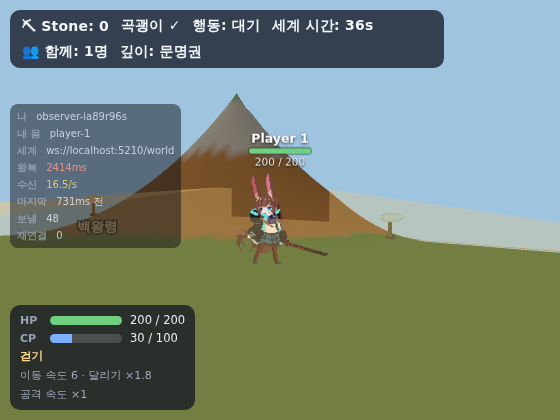
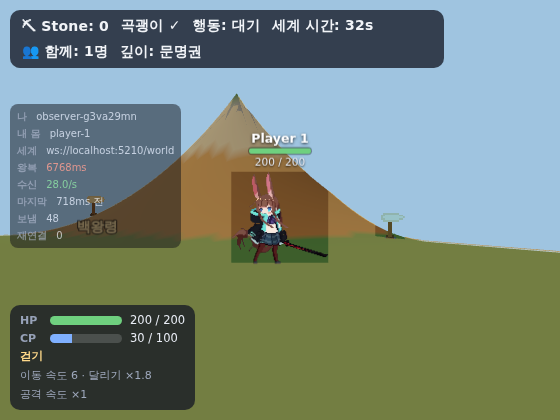
C005 마감 — 시나리오 909/909 PASS · 7항 충족 · Human 판정 대기 7
촬영 5장 · TODO · GAP 그림을 고쳐진 증거로 이름 바로잡음.

7항 — Design Trace(spec SOURCE) · Scope(Playable Goal) · Semantic/Rule(규칙을 하나도
늘리지 않은 것이 이 Cycle 의 Rule 이다) · Implementation(데이터 한 덩이 + 표 둘 + 배선) ·
Observable(계약 무변경) · Verification(909 PASS + TODO 관찰 항목) 충족.

실현 중 드러난 ENGINE GAP 하나는 ENGINE A 레인에서 분리 커밋으로 고쳤다 —
방 바닥 면이 지면을 따라가지 않던 것. 평평한 땅에서는 드러나지 않던 자리다.

Claude-Session: https://claude.ai/code/session_01R8nw8zno3PwbKV3wBJDsVY

diff --git a/HktAdvProtoI/cycles/C005-land-rises/TODO.md b/HktAdvProtoI/cycles/C005-land-rises/TODO.md
@@ -1,0 +1,99 @@
+# C005 — TODO
+
+살아 있는 문서다. 항목이 닫히면 지운다 — 다 지워지면 이 파일도 지운다
+(`spec.md` 만 남은 디렉터리가 닫힌 Cycle 이다).
+
+## Human 판정 대기 — Experience Verification
+
+`npm run dev` 로 띄운다. 시점 내리기는 `T`, 걷기는 방향키.
+자동 시나리오(`content/world/tests/c005-land-rises.spec.ts` 48 ·
+`content/view/tests/c005-terrain-view.spec.ts` 10 · engine 컴파일러·terrain 테스트)는 전부 PASS 다.
+그림은 `shots/`.
+
+```text
+Start   백왕령은 색칠된 평평한 바닥이다. 왜 안전한지는 이름표가 말할 뿐이다.
+End     북쪽이 솟았다. 올라가 보면 발밑 색이 바뀐다. 땅이 생겼는데 규칙은 하나도 늘지 않았다.
+```
+
+```text
+X-①  땅이 솟았다
+     하기   백왕령에서 시점을 내려 북쪽을 본다
+     보기   평평하던 방의 북서쪽이 능선으로 솟아 있다. 하늘을 배경으로 윤곽이 선다.
+           HUD 는 "깊이: 문명권" 그대로다 — 땅이 생겼다고 세계의 대답이 바뀌지는 않았다
+     그림   shots/X-01-ridge-from-plain.png
+     판정   [ ]
+
+X-②  발밑 색이 경사로 갈린다
+     하기   능선 쪽으로 걸어 올라간다
+     보기   초록(평지) → 갈색(비탈) → 회색(급경사) 셋이 갈린다. 밝기가 아니라 색으로 갈리는가.
+           "기울수록 흙과 풀이 붙어 있지 못한다" 로 읽히는가 — 풀 · 벗겨진 흙 · 맨 바위
+     그림   shots/X-02-on-the-ridge.png
+     판정   [ ]
+
+X-③  급경사는 아직 막지 않는다
+     하기   가장 가파른 자리(회색)로 계속 올라간다
+     보기   막히지 않는다. 거절 문구도 뜨지 않는다. 능선 위에 올라설 수 있다.
+           **이것이 이번 Cycle 의 의도다** — 막는 것은 C006 이다
+     그림   shots/X-02-on-the-ridge.png
+     판정   [ ]
+
+X-④  몸과 표식이 땅에 붙어 있다
+     하기   능선을 오르내리며 몸과 출구 표식·광맥을 본다
+     보기   몸이 사면에 붙어 있다(뜨지도 파묻히지도 않는다). 출구 표식도 산기슭의 땅 높이에
+           함께 올라가 있다. 숲으로 가는 문은 파묻히지 않았다 — 걸어갈 수 있는 비탈이다
+     그림   shots/X-03-forest-path-foot.png
+     판정   [ ]
+
+X-⑤  데이터가 없는 방은 평평하다
+     하기   북쪽 문으로 숲 가장자리에 건너간다
+     보기   완전한 평면이고 색도 하나다. 같은 코드가 데이터 없는 방에서 평면을 그린다
+     그림   shots/X-04-flat-room.png
+     판정   [ ]
+
+X-⑥  바닥 면이 지면을 따라간다
+     하기   능선 기슭 근처에서 방 바닥의 반투명 면을 본다
+     보기   면이 지면에 붙어 있다. 기울어진 판으로 떠서 지평선을 가로지르지 않는다
+           (이 자리가 원래 떠 있던 자리다 — 이번에 engine 에서 고쳤다)
+     그림   shots/X-06-zone-fill-drapes.png
+     판정   [ ]
+
+X-⑦  Intent — 땅이 데이터로 생겼는가
+     하기   `content/regions/white-king-domain.ts` 의 stamp op 한 덩이를 열어 본다.
+           값을 바꿔 보고(중심·반경·높이·falloff) 다시 띄운다
+     보기   그 한 덩이가 이 땅의 전부인가. 값을 바꾸면 땅이 바뀌는가.
+           **`engine` · `content/world` · `content/protocol` 은 한 줄도 바뀌지 않았다** —
+           `git show --stat` 으로 확인할 수 있다. 그것이 "방이 땅이 된다" 의 뜻인가
+     판정   [ ]
+```
+
+## 알려진 부채
+
+```text
+80×80 방의 바닥 채움이 조금 굵다      채움 삼각형 상한(20000)에 걸려 눈금이 1.77 로 굵어진다.
+                                  지면에서 뜬 거리는 0.020 이라 눈에 띄지 않지만, 방이 더 커지면
+                                  이 수가 커진다. 큰 Region 이 실제로 오면 그때 chunk 처럼 나눈다
+컴파일을 켤 때마다 한다              *.compiled.generated.ts 로 굽는 도구(world:compile)가 C007 의 것이다.
+                                  지금은 방마다 한 번 컴파일해 두고 다시 쓴다 — 방 아홉이 그 정도 크기다
+방 바닥이 지형 굴곡에 묻힌다(C001)    이 Cycle 이 절반을 갚았다 — 면이 지면을 따라가게 됐다.
+                                  남은 것은 평지에서도 면이 살짝 떠 보이는 것(ZONE_LIFT)이고 의도된 값이다
+```
+
+## 다음 Cycle 로
+
+```text
+급경사가 몸을 막는 것 (C006)
+    이 Cycle 은 45° 이상을 색으로만 냈다. traversable 격자와 이동 거절은 C006 이다.
+    지금 데이터에서 45° 이상은 vertex 의 5.0% 이고 전부 능선 꼭대기 쪽이다 —
+    숲으로 가는 문(FOREST_PATH) 앞은 26° 라 C006 이 막아도 길은 열려 있다
+    (그렇게 되도록 능선을 서쪽으로 두었다)
+
+세계는 아직 땅을 모른다
+    WorldState 에 terrain 이 없고 규칙 중 무엇도 높이를 읽지 않는다. C006 이 traversable 을
+    읽어야 하는 순간, "world 와 view 가 같은 규칙 표를 읽는가"(그래야 hash 가 같다)가
+    처음 문제가 된다 — 지금 규칙 표는 content/view 에 있다 (L2-World-Tool §4 의 파일 지도 그대로)
+
+표면 임계 15° 는 근거가 약하다 (Human 감사)
+    급경사 45° 는 확정 1 이 준 값이지만 평지/비탈을 가르는 각은 어느 문서에도 없어 45°의 1/3 로 두었다.
+    지금 분포는 평지 75.8% · 비탈 19.2% · 급경사 5.0% 다. 눈으로 보고 비탈이 너무 넓거나 좁으면
+    biome-rules 의 한 줄로 바꾼다 — 코드가 아니다
+```
